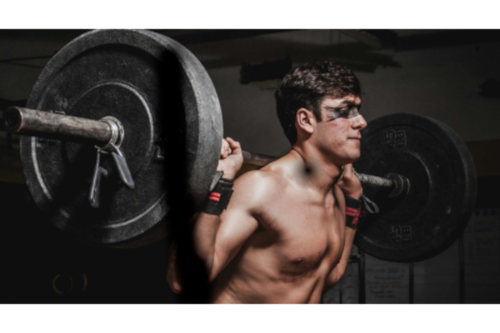
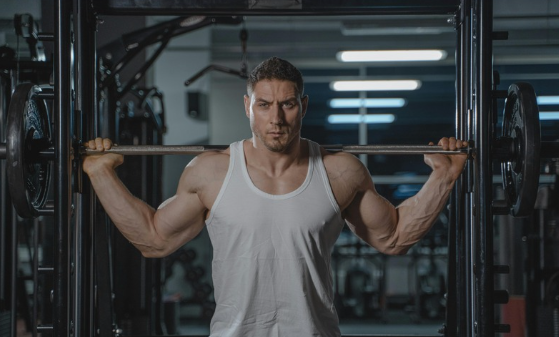
atualização do card

diff --git a/Frontend/pages/treino.html b/Frontend/pages/treino.html
@@ -1,5 +1,6 @@
 <!DOCTYPE html>
 <html lang="">
+
 <head>
     <meta charset="UTF-8">
     <meta name="viewport" content="width=device-width, initial-scale=1.0">
@@ -7,21 +8,22 @@
     <link href='https://unpkg.com/boxicons@2.1.4/css/boxicons.min.css' rel='stylesheet'>
     <title>Treinos</title>
 </head>
+
 <body>
 
-     <header class="header">
+    <header class="header">
         <div class="nav-bar">
-             <img src="../Assets/IMG/logo ARK.png" alt="logo" width="180" class="logo">
+            <img src="../Assets/IMG/logo ARK.png" alt="logo" width="180" class="logo">
             <nav class="nav">
                 <a href="../index.html">INÍCIO</a>
                 <a href="../pages/treino.html">TREINO</a>
                 <a href="#">SOBRE NÓS</a>
                 <a href="../pages/contato.html">CONTATO</a>
                 <button type="submit" class="buttom">MATRICULE-SE</button>
-            </nav>  
+            </nav>
     </header>
     </div>
-     
+
     <div class="container-img">
         <img src="../Assets/IMG/img09.png" alt="treino" class="img-treino">
         <div class="text-motivation">
@@ -30,36 +32,47 @@
         </div>
     </div>
 
-        <div class="header-box">
-            <header>
-                <nav class="nav-box">
-                    <ul class="ul">
-                        <li><a href="#">TODOS</a></li>
-                        <li><a href="#">HIPERTROFIA</a></li>
-                        <li><a href="#">EMAGRECIMENTO</a></li>
-                        <li><a href="#">FORÇA</a></li>
-                        <li><a href="#">CONDICIONAMENTO</a></li>
-                    </ul>
-                </nav>
-            </header>
-        </div>
+    <div class="header-box">
+        <header>
+            <nav class="nav-box">
+                <ul class="ul">
+                    <li><a href="#">TODOS</a></li>
+                    <li><a href="#">HIPERTROFIA</a></li>
+                    <li><a href="#">EMAGRECIMENTO</a></li>
+                    <li><a href="#">FORÇA</a></li>
+                    <li><a href="#">CONDICIONAMENTO</a></li>
+                </ul>
+            </nav>
+        </header>
+    </div>
+
+    <div class="container-card">
+
+            <div class="card">
+                <figure>
+                    <a href="#"><img src="../Assets/IMG/img01.png" alt="treino"></a>
+                    <figcaption>legenda</figcaption>
+                </figure>
+            </div >
+
+            <div class="card">
+                <figure>
+                        <a href="#"><img src="../Assets/IMG/img02.png" alt="treino"></a>
+                        <figcaption>legenda</figcaption>
+                </figure>
+            </div>
+
+             <div class="card">
+                 <figure>
+                        <a href="#"><img src="../Assets/IMG/img03.png" alt="treino"></a>
+                        <figcaption>legenda</figcaption>
+                 </figure>
+             </div>
+
         
-        <div class="container-card">
-                <figure class="card-treino">
-                   <a href="#"><img src="../Assets/IMG/img01.png" alt="treino"></a>
-              <figcaption>legenda</figcaption>
+    </div>
 
-              <figure class="card-treino">
-                 <a href="#"><img src="../Assets/IMG/img02.png" alt="treino"></a>
-                   <figcaption>legenda</figcaption>
-              </figure>
 
-              <figure class="card-treino">
-                 <a href="#"><img src="../Assets/IMG/img03.png" alt="treino"></a>
-                   <figcaption>legenda</figcaption>
-              </figure>
-        </div>
-   
-    
 </body>
+
 </html>

diff --git a/Frontend/index.html b/Frontend/index.html
@@ -30,8 +30,7 @@
             <img src="../Frontend/Assets/IMG/img07.jpg" alt="img07">
             <img src="../Frontend/Assets/IMG/img08.jpg" alt="img08">
         </div>
-    </div>
-    <hr>
+    </div><hr>
 
     <footer class="footer">
         <div class="container-box">
@@ -40,25 +39,25 @@
             </div>
 
             <div class="container-card">
-                 <div class="card-img">
+                 <div class="card">
                     <figure>
                         <a href="#"><img src="../Frontend/Assets/IMG/img01.png" alt="treino"></a>
-                        <figcaption>Treino de Costa e Peito</figcaption>
+                        <figcaption>Treino de Costa </figcaption>
                  </div>
 
-                 <div class="card-img">
+                 <div class="card">
                     <figure>
                         <a href="#"><img src="../Frontend/Assets/IMG/img02.png" alt="treino"></a>
                         <figcaption>Treino de Perna</figcaption>
                  </div>
 
-                 <div class="card-img">
+                 <div class="card">
                     <figure>
                         <a href="#"><img src="../Frontend/Assets/IMG/img03.png" alt="treino"></a>
                         <figcaption>Treino de abdomen</figcaption>
                  </div>
 
-            </div>  <hr>
+            </div><hr>
 
             <div class="contato">
                 <h3>Contato</h3>
@@ -73,13 +72,11 @@
                     <img src="https://img.icons8.com/ios/30/ffffff/tiktok--v1.png" alt="logo-tiktok"></a>
             </div>
 
-        </div>
-        <hr>
+        </div><hr>
 
         <div class="políticas">
             <a href="../Frontend/pages/Políticas.html">Políticas de Privacidade</a>
-        </div>
-        <hr>
+        </div><hr>
 
         <div class="final">
             <p>&copy;Ark Trainner. Todos os direitos reservados. Desenvolvido por Guilherme Graiff, Keirrinson Silva,

diff --git a/Frontend/css/style.css b/Frontend/css/style.css
@@ -7,6 +7,7 @@
     outline: none;
     text-decoration: none;
     transition: 0.2s linear ;
+    box-sizing: border-box;
 }
 
 body{
@@ -18,6 +19,7 @@ body{
     min-height: 100vh;
     padding: 0;
     overflow-x: hidden;
+    box-sizing: border-box;
 }
 
 .header{
@@ -108,37 +110,48 @@ margin: auto;
 }
 .container-card{
    display: flex;
+   flex-direction: row;
+   flex-wrap: wrap;
    justify-content: center;
-   align-items: center;
-   gap: 50px;
+   align-items: flex-start;
+   gap: 30px;
+   padding: 40px;
+   box-sizing: border-box;
+ }
+ 
+ .card{ 
+   background-color: #ffc300;
+   border: 2px solid #000;
+   border-radius: 20px;
+   width: 285px;
    overflow: hidden;
-}
-.card-img{
+   display: flex;
+   flex-direction: column;
+   transition: transforme 0.3s ease;
+ }
+ 
+ .card img{
+   width: 100%;
+   height: 200px;
+   object-fit: cover;
+   display: block;
+ }
+ 
+ .card figcaption{
    display: flex;
    justify-content: center;
    align-items: center;
-   background-color: #ffc300;
-   border-radius: 20px;
-}
-
-.card-img, img{
-   width: 100%;
-   border-top-left-radius:10px ;
-   border-top-right-radius: 10px;
-}
-
-figcaption{
-   color: #000;
-   font-size: 20px;
    text-transform: uppercase;
-   margin: 10px;
-}
-hr{
+   padding: 8px;
+ }
+
+ hr{
    border: 0;
    border-top: 1px solid #333;
-   width: 80%;
-   margin: 50px 0;
+   width: 100%;
+   margin: 20px 0;
 }
+
 
 .container-box a{
    display: flex;

diff --git a/Frontend/css/treino.css b/Frontend/css/treino.css
@@ -146,31 +146,38 @@ body{
 }
 
 .container-card{
-   display: flex;
-   justify-content: center;
-   align-items: center;
-   padding: 60px;
-   overflow: hidden;
-}
-.card-treino{
-   display: flex;
-   justify-content: center;
-   align-items: center;
-   background-color: #ffc300;
-   border-radius: 20px;
-   width: 400px;
+  display: flex;
+  flex-direction: row;
+  flex-wrap: wrap;
+  justify-content: center;
+  align-items: flex-start;
+  gap: 30px;
+  padding: 40px;
+  box-sizing: border-box;
 }
 
-.card-treino, .img{
-   border-top-left-radius:10px ;
-   border-top-right-radius: 10px;
-   width: 100%;
+.card{ 
+  background-color: #ffc300;
+  border: 2px solid #000;
+  border-radius: 20px;
+  width: 320px;
+  overflow: hidden;
+  display: flex;
+  flex-direction: column;
+  transition: transforme 0.3s ease;
 }
 
-.figcaption{
-   color: #000;
-   font-size: 20px;
-   text-transform: uppercase;
-   margin: 10px;
-   
+.card img{
+  width: 100%;
+  height: 200px;
+  object-fit: cover;
+  display: block;
+}
+
+.card figcaption{
+  display: flex;
+  justify-content: center;
+  align-items: center;
+  text-transform: uppercase;
+  padding: 10px;
 }

diff --git a/Frontend/css/contato.css b/Frontend/css/contato.css
@@ -118,8 +118,8 @@ body{
     width: 500px;
     margin: 20px ;
     position: absolute;
-    left: 15%;
-    top: 67.5%;   
+    left: 100px;
+    top: 465px;   
 }
 .input-box button{
     box-sizing: border-box;
@@ -191,8 +191,8 @@ body{
     border-radius: 15px;
     width: 280px;
     position: absolute;
-    left: 59%;
-    top: 70.5%;
+    left: 750px;
+    top: 485px;
 }
 
 .box-contato, .formas-contato{
@@ -210,7 +210,7 @@ body{
     flex-direction: column;
     align-items: center;
     justify-content: center;
-    margin-top: 65%;
+    margin-top: 1000px;
  }
  
  .container-box {
